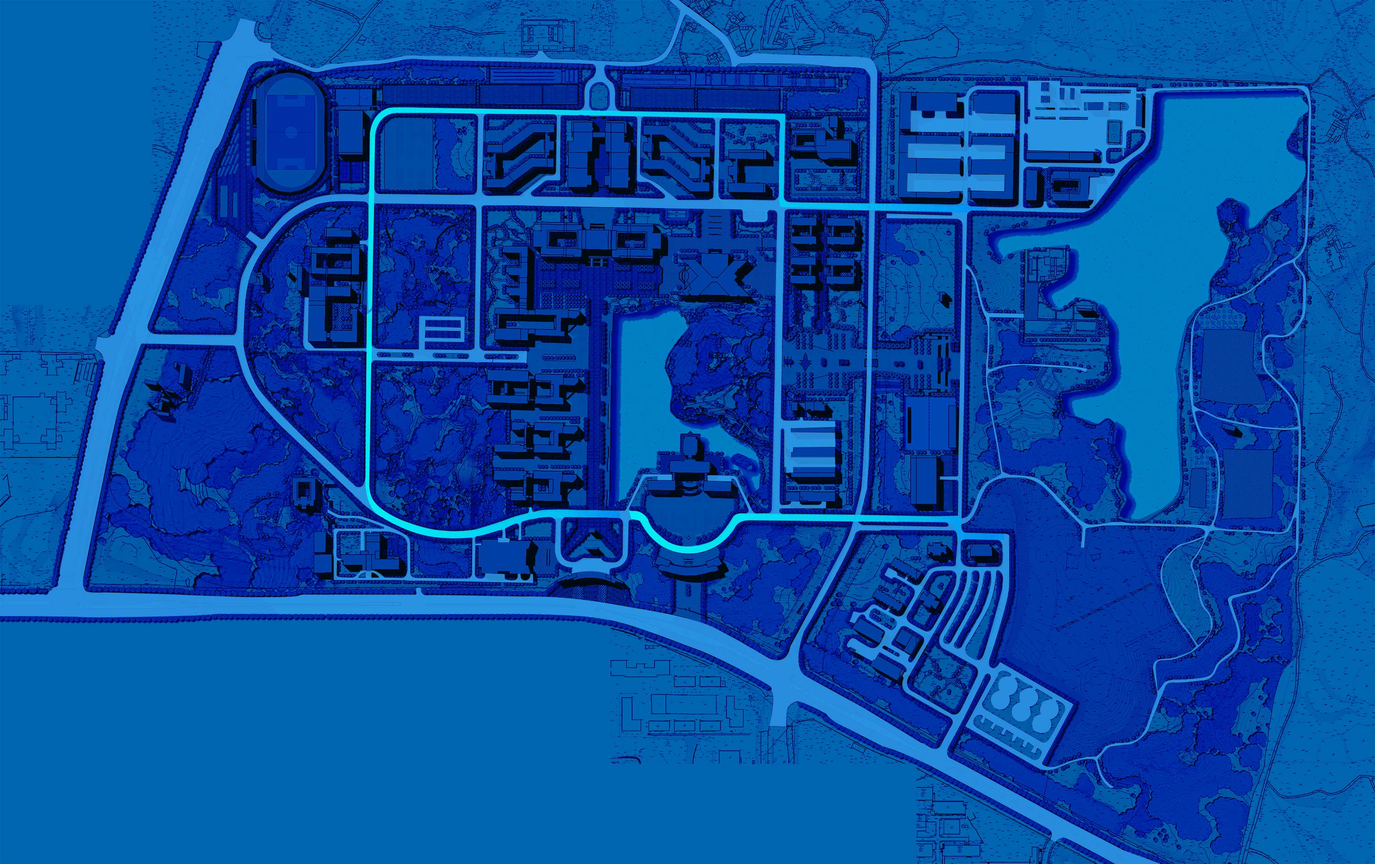
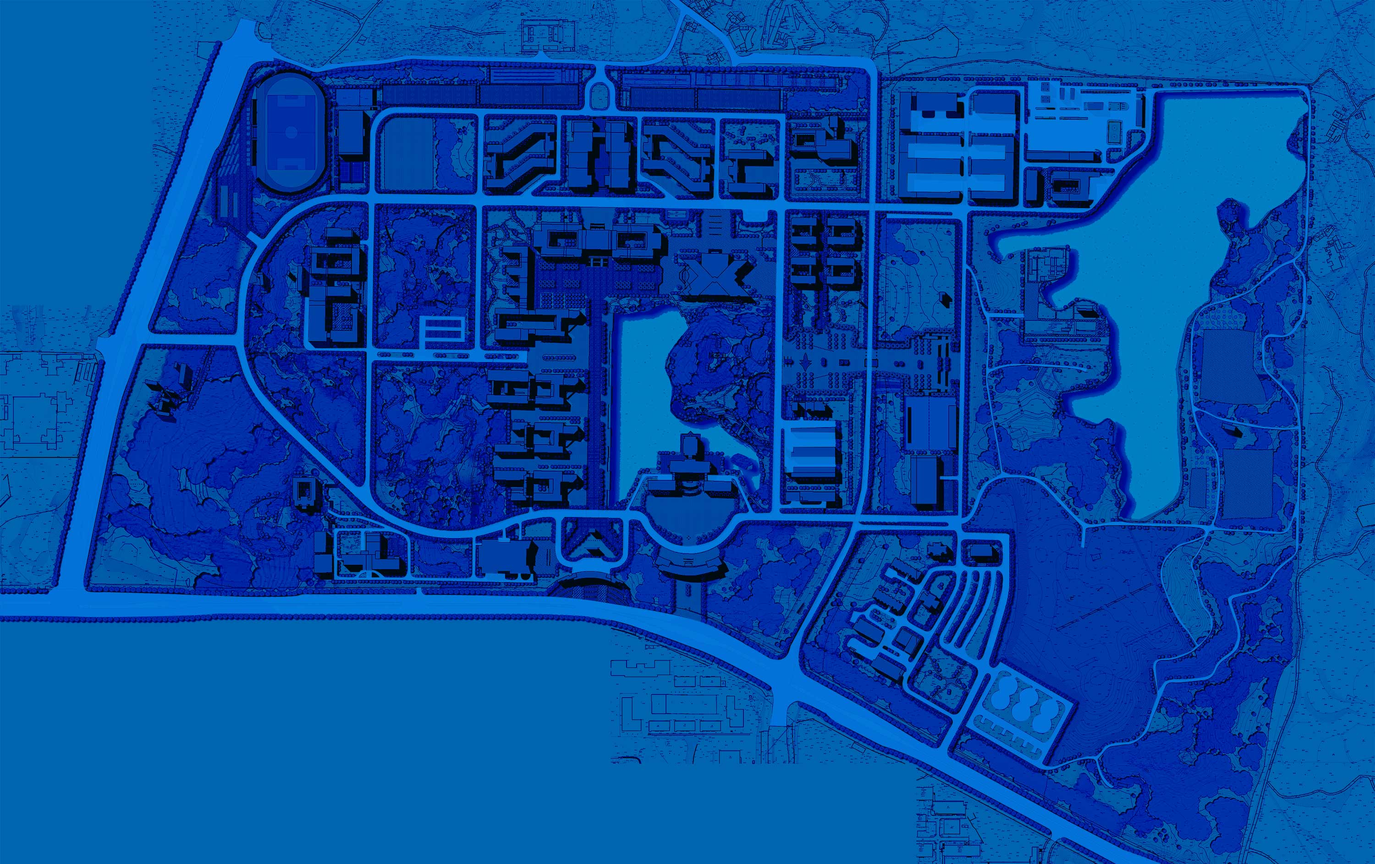
bug: map line

diff --git a/src/Material.vue b/src/Material.vue
@@ -2,8 +2,13 @@
   <layout>
     <menu-item slot="header" :title-list="headerTitle"></menu-item>
     <material-item slot="left-bar" :materialData="allPoint"></material-item>
-    <div slot="container" class="map" ref='mapWrap'>
-      <img src="./assets/map.jpg" alt="" :style="`width: ${imgWidth}px; height: ${imgHeight}px`">
+    <div slot="container" class="map" ref="mapWrap">
+      <img
+        class="map-bg"
+        src="./assets/map.jpg"
+        alt
+        :style="`width: ${imgWidth}px; height: ${imgHeight}px`"
+      >
       <div class="anchor">
         <div
           class="anchor-cont"
@@ -11,10 +16,24 @@
           :key="idx"
           :style="calStyle(item)"
         >
-          <div class="tip" v-show="isPointActive(idx)">
-            {{isPointActive(idx) && activePoint.licenseplate}}
-          </div>
+          <div
+            class="tip"
+            v-show="isPointActive(idx)"
+          >{{isPointActive(idx) && activePoint.licenseplate}}</div>
           <div :class="['pulse', isPointActive(idx) ? 'active' : '']"></div>
+        </div>
+        <div
+            class="anchor-line"
+            v-for="(item, idx) in calPointList"
+            :key="idx+'line'"
+            :style="calStyle(item)"
+          >
+          <img
+            v-if="idx >= 1"
+            :ref="`line${idx}`"
+            :src="require(`./assets/map/line${idx + 1}.png`)"
+            alt="l"
+          >
         </div>
       </div>
     </div>
@@ -25,16 +44,22 @@
 import menuItem from "./components/MenuItem.vue";
 import materialItem from "./components/MaterialItem.vue";
 import companyItem from "./components/CompanyItem.vue";
-import titleLeft from './components/TitleLeft.vue';
-import titleRight from './components/TitleRight.vue';
+import titleLeft from "./components/TitleLeft.vue";
+import titleRight from "./components/TitleRight.vue";
 
-import ajax from './utils/ajax'
+import ajax from "./utils/ajax";
 
-const pointList = [[579,660], [593,194], [601,-489], [-287,180], [-677,-687]]
-const headerTitle={monitor: '在途监控', management: '任务配送管理'}
-const defaultW = 3000
-const defaultH = 1885
-const defaultProp = defaultW / defaultH
+const pointList = [
+  [579, 660],
+  [593, 194],
+  [601, -489],
+  [-287, 180],
+  [-677, -687]
+];
+const headerTitle = { monitor: "在途监控", management: "任务配送管理" };
+const defaultW = 3000;
+const defaultH = 1885;
+const defaultProp = defaultW / defaultH;
 export default {
   data() {
     return {
@@ -46,8 +71,8 @@ export default {
       headerTitle,
       queryInterval: null,
       linkObj: {
-        link: '#/storage',
-        title: '出库物资一览'
+        link: "#/storage",
+        title: "出库物资一览"
       }
     };
   },
@@ -59,115 +84,169 @@ export default {
     titleLeft
   },
   computed: {
-    calPointList: function(){
+    calPointList: function() {
       return pointList.map(item => {
-        const { imgprop } = this
-        return [item[0]/imgprop, item[1]/imgprop]
-      })
+        const { imgprop } = this;
+        return [item[0] / imgprop, item[1] / imgprop];
+      });
     }
   },
   mounted() {
-    const _this = this
-    _this.changeWidth()
-    window.addEventListener("resize", _this.changeWidth.bind(_this))
-    _this.querydata()
+    const _this = this;
+    _this.changeWidth();
+    window.addEventListener("resize", _this.changeWidth.bind(_this));
+    _this.querydata();
+
+    // dom ready
+    _this.changeImageWidth();
+    // console.warn($refs)
+  },
+  updated() {
+    this.changeImageWidth();
   },
   methods: {
+    changeImageWidth() {
+      const $refs = this.$refs;
+      Object.keys($refs).map(key => {
+        if (key.startsWith("line")) {
+          if (!this[`${key}_width`]) {
+            this[`${key}_width`] = this.$refs[key][0].width;
+          }
+          const width = this[`${key}_width`];
+
+          this.$refs[key][0].style.visibility = "visible";
+          if (width) {
+            console.warn(width, this.imgprop);
+            this.$refs[key][0].width = width / this.imgprop;
+          }
+        }
+      });
+    },
     changeWidth() {
-      const wrapWidth = this.$refs.mapWrap.clientWidth
-      const wrapHeight = this.$refs.mapWrap.clientHeight
-      if (wrapWidth > wrapHeight * defaultProp){
-        this.imgWidth = wrapHeight * defaultProp
-        this.imgHeight = wrapHeight
-        this.imgprop = defaultH / wrapHeight
+      const wrapWidth = this.$refs.mapWrap.clientWidth;
+      const wrapHeight = this.$refs.mapWrap.clientHeight;
+      if (wrapWidth > wrapHeight * defaultProp) {
+        this.imgWidth = wrapHeight * defaultProp;
+        this.imgHeight = wrapHeight;
+        this.imgprop = defaultH / wrapHeight;
       } else {
-        this.imgWidth = wrapWidth
-        this.imgHeight = wrapWidth / defaultProp
-        this.imgprop = defaultW / wrapWidth
+        this.imgWidth = wrapWidth;
+        this.imgHeight = wrapWidth / defaultProp;
+        this.imgprop = defaultW / wrapWidth;
+      }
+      this.changeImageWidth();
+    },
+    calStyle(item) {
+      const coordinate = item;
+      return `transform: translateX(${coordinate[0]}px) translateY(${
+        coordinate[1]
+      }px)`;
+    },
+    calLineWidth(idx) {
+      const $refs = this.$refs;
+      if (Object.keys($refs).length && this.$refs[`line${idx}`]) {
+        const width = this.$refs[`line${idx}`][0].clientWidth;
+        console.warn(width, `line${idx}`, this.$refs[`line${idx}`][0]);
+        if (width) {
+          return `translate: scale(${width / this.imgprop})`;
+        } else {
+          return `translate: scale(1)`;
+        }
+        // if (this.$refs[`line${idx + 1}`]) {
+        //   const width = this.$refs[`line${idx + 1}`][0].clientWidth;
+        //   console.log(width / this.imgprop);
+        //   if (width) {
+        //     return `width: ${width / this.imgprop}`;
+        //   }
+        // }
       }
     },
-    calStyle(item){
-      const coordinate = item
-      return `transform: translateX(${coordinate[0]}px) translateY(${coordinate[1]}px)`
+    isPointActive(idx) {
+      return (
+        this.activePoint.TrajectoryList &&
+        this.activePoint.TrajectoryList[0].readerid.includes(idx + 1)
+      );
     },
-    isPointActive(idx){
-      return this.activePoint.TrajectoryList && this.activePoint.TrajectoryList[0].readerid.includes(idx+1)
-    },
-    querydata(){
-      const _this = this
+    querydata() {
+      const _this = this;
       ajax({
-        url: 'API/VehicleMonitor/MonitorQuery.ashx',
-        method: 'post',
+        url: "API/VehicleMonitor/MonitorQuery.ashx",
+        method: "post",
         data: JSON.stringify({
-          userid: '',
-          username: '',
-          page: ''
+          userid: "",
+          username: "",
+          page: ""
         })
       }).then(res => {
-          const length = res.Entity.length
-          var i = 0
-          const setMaterial = () => {
-            if(i < length){
-              _this.allPoint = res.Entity
-              _this.activePoint = res.Entity[i]
-              // const trajectoryList = res.Entity[i].TrajectoryList
-              // _this.activePoint=trajectoryList[0]
-              setTimeout(setMaterial, 5000)
-              i++
-            }
-            else {
-              //循环后重新查询
-              _this.querydata();
-            }
+        const length = res.Entity.length;
+        var i = 0;
+        const setMaterial = () => {
+          if (i < length) {
+            _this.allPoint = res.Entity;
+            _this.activePoint = res.Entity[i];
+            // const trajectoryList = res.Entity[i].TrajectoryList
+            // _this.activePoint=trajectoryList[0]
+            setTimeout(setMaterial, 5000);
+            i++;
+          } else {
+            //循环后重新查询
+            _this.querydata();
           }
-          setMaterial();
+        };
+        setMaterial();
         // _this.activePoint = res.Entity
-      })
+      });
     }
   },
   destroyed() {
-    clearInterval(this.queryInterval)
+    clearInterval(this.queryInterval);
   }
 };
 </script>
 <style scoped>
-  @import './assets/styles/animate.css';
-  .map{
-    position: relative;
-    display: flex;
-    width: 100%;
-    height: 100%;
-    align-items: center;
-    justify-content: center;
-  }
-  .map img{
-    position: absolute;
-    max-width: 100%;
-    max-height: 100%;
-    width: auto;
-    height: auto;
-    z-index: 0;
-  }
-  .anchor{
-    position: absolute;
-    top: 50%;
-    left: 50%;
-    width: 1px;
-    height: 1px;
-    z-index: 99;
-  }
-  .anchor-cont{
-    position: relative;
-  }
-  .tip{
-    position: absolute;
-    top: -2rem;
-    left: 2rem;
-    width: 12rem;
-    height: 3.6rem;
-    line-height: 3.6rem;
-    font-size: 2.2rem;
-    color: #ffffff;
-    background-color: rgba(88,246, 240, .5);
-  }
+@import "./assets/styles/animate.css";
+.map {
+  position: relative;
+  display: flex;
+  width: 100%;
+  height: 100%;
+  align-items: center;
+  justify-content: center;
+}
+.map .map-bg {
+  position: absolute;
+  max-width: 100%;
+  max-height: 100%;
+  width: auto;
+  height: auto;
+  z-index: 0;
+}
+.anchor {
+  position: absolute;
+  top: 50%;
+  left: 50%;
+  width: 1px;
+  height: 1px;
+  z-index: 99;
+}
+.anchor-cont {
+  position: relative;
+}
+.anchor-line {
+  position: relative;
+}
+.anchor-line img {
+  visibility: hidden;
+}
+.tip {
+  position: absolute;
+  top: -2rem;
+  left: 2rem;
+  width: 12rem;
+  height: 3.6rem;
+  line-height: 3.6rem;
+  font-size: 2.2rem;
+  color: #ffffff;
+  background-color: rgba(88, 246, 240, 0.5);
+}
 </style>
